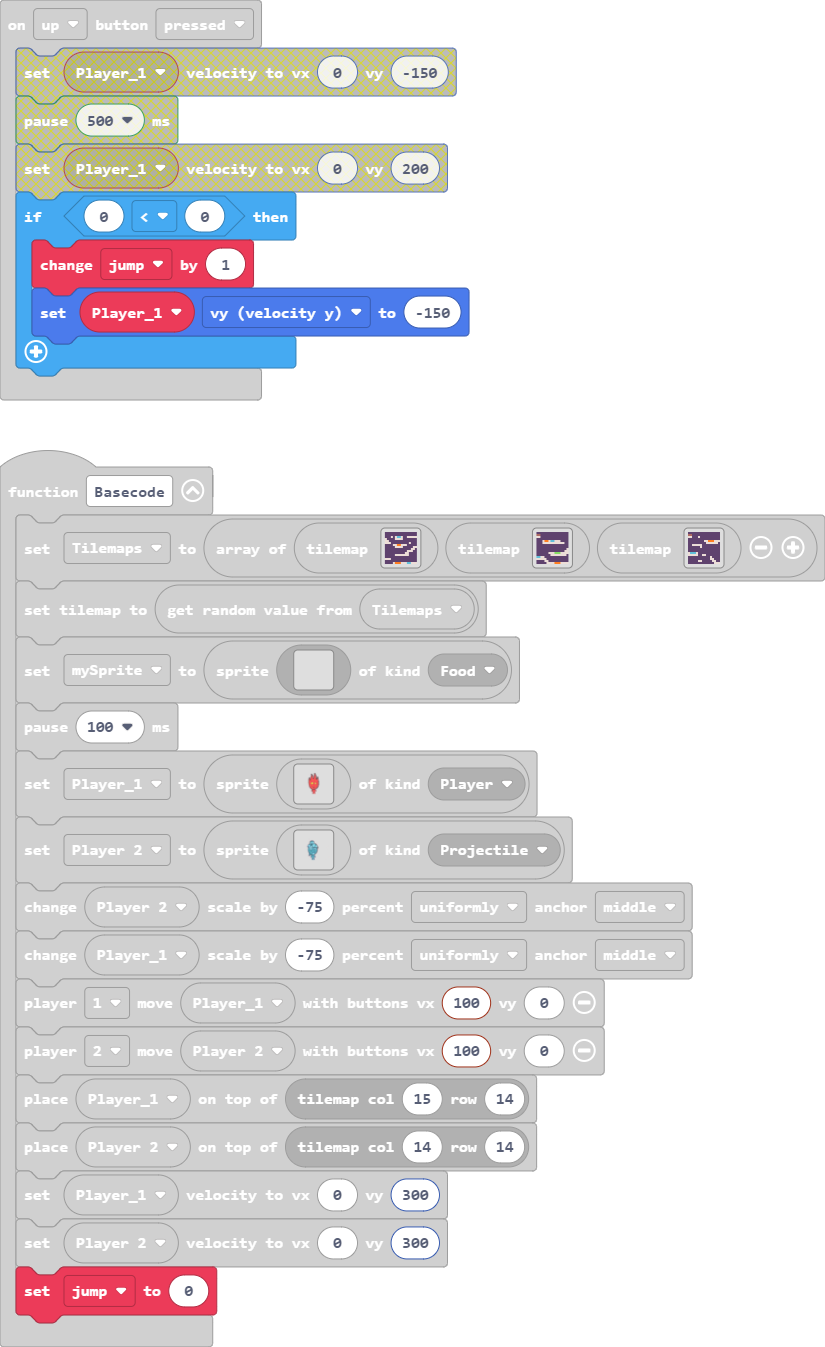
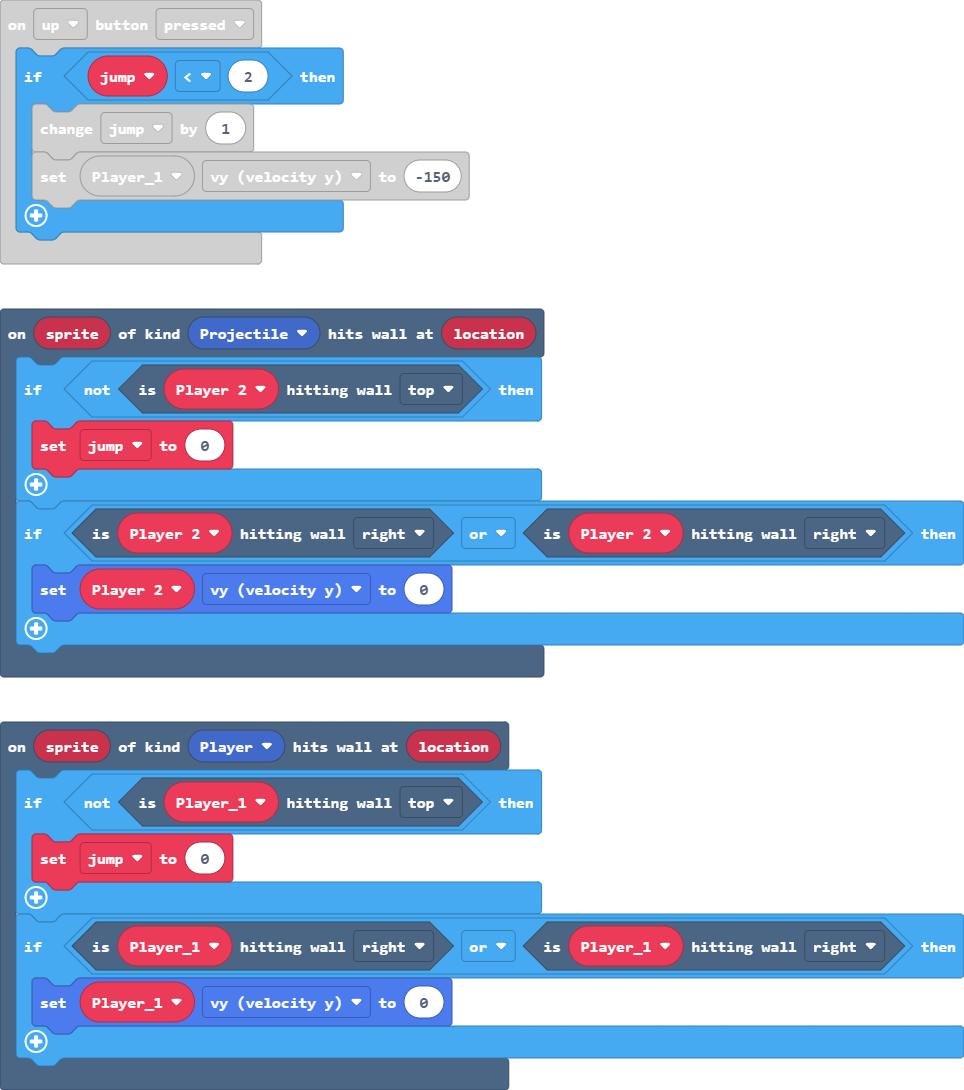
Update main.blocks, main.ts

diff --git a/main.ts b/main.ts
@@ -4,9 +4,17 @@ scene.onOverlapTile(SpriteKind.Player, assets.tile`myTile0`, function (sprite, l
     tiles.placeOnTile(Player_2, tiles.getTileLocation(14, 14))
 })
 controller.up.onEvent(ControllerButtonEvent.Pressed, function () {
-    if (0 < 0) {
+    if (jump < 2) {
         jump += 1
         Player_1.vy = -150
+    }
+})
+scene.onHitWall(SpriteKind.Player, function (sprite, location) {
+    if (!(Player_1.isHittingTile(CollisionDirection.Top))) {
+        jump = 0
+    }
+    if (Player_1.isHittingTile(CollisionDirection.Right) || Player_1.isHittingTile(CollisionDirection.Right)) {
+        Player_1.vy = 0
     }
 })
 scene.onOverlapTile(SpriteKind.Projectile, sprites.dungeon.hazardLava0, function (sprite, location) {
@@ -58,6 +66,14 @@ function Basecode () {
     Player_2.setVelocity(0, 300)
     jump = 0
 }
+scene.onHitWall(SpriteKind.Projectile, function (sprite, location) {
+    if (!(Player_2.isHittingTile(CollisionDirection.Top))) {
+        jump = 0
+    }
+    if (Player_2.isHittingTile(CollisionDirection.Right) || Player_2.isHittingTile(CollisionDirection.Right)) {
+        Player_2.vy = 0
+    }
+})
 let mySprite: Sprite = null
 let Tilemaps: tiles.TileMapData[] = []
 let jump = 0
